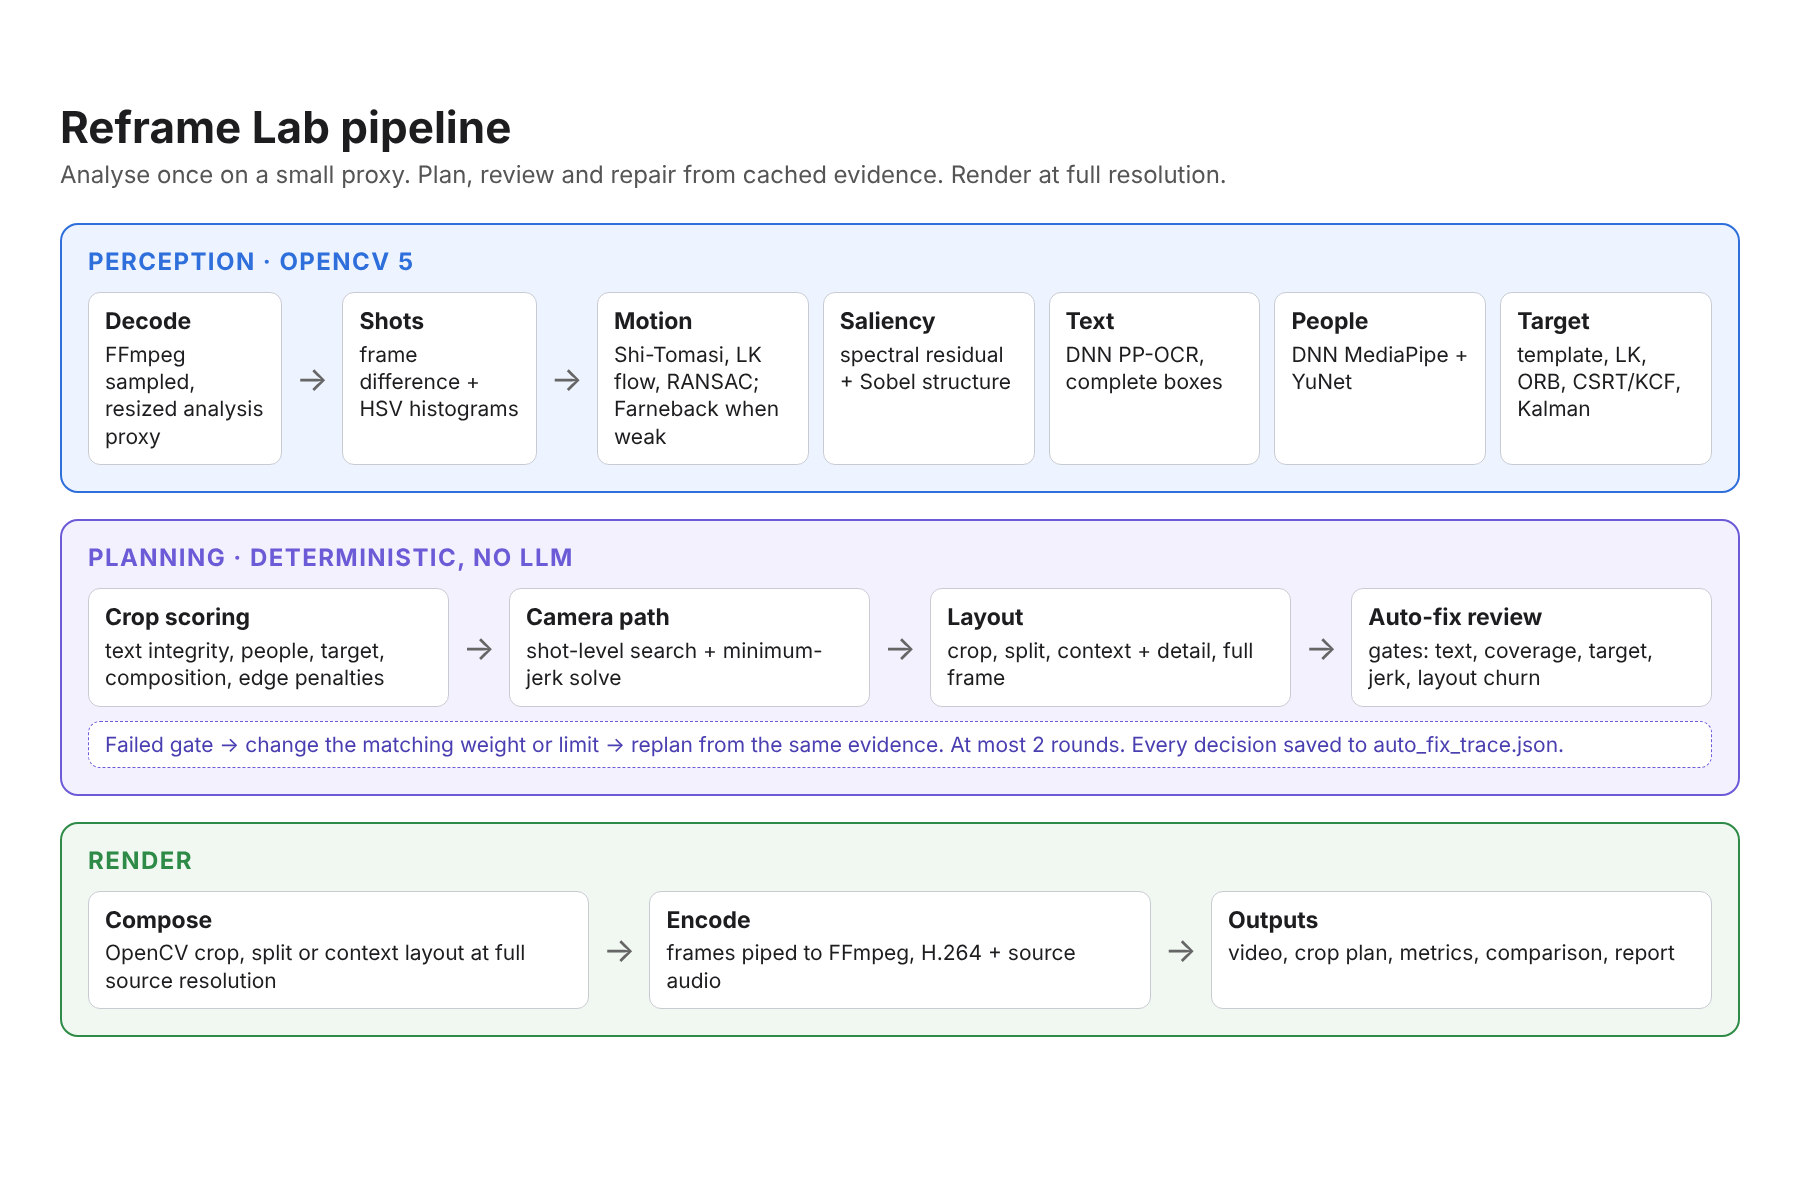
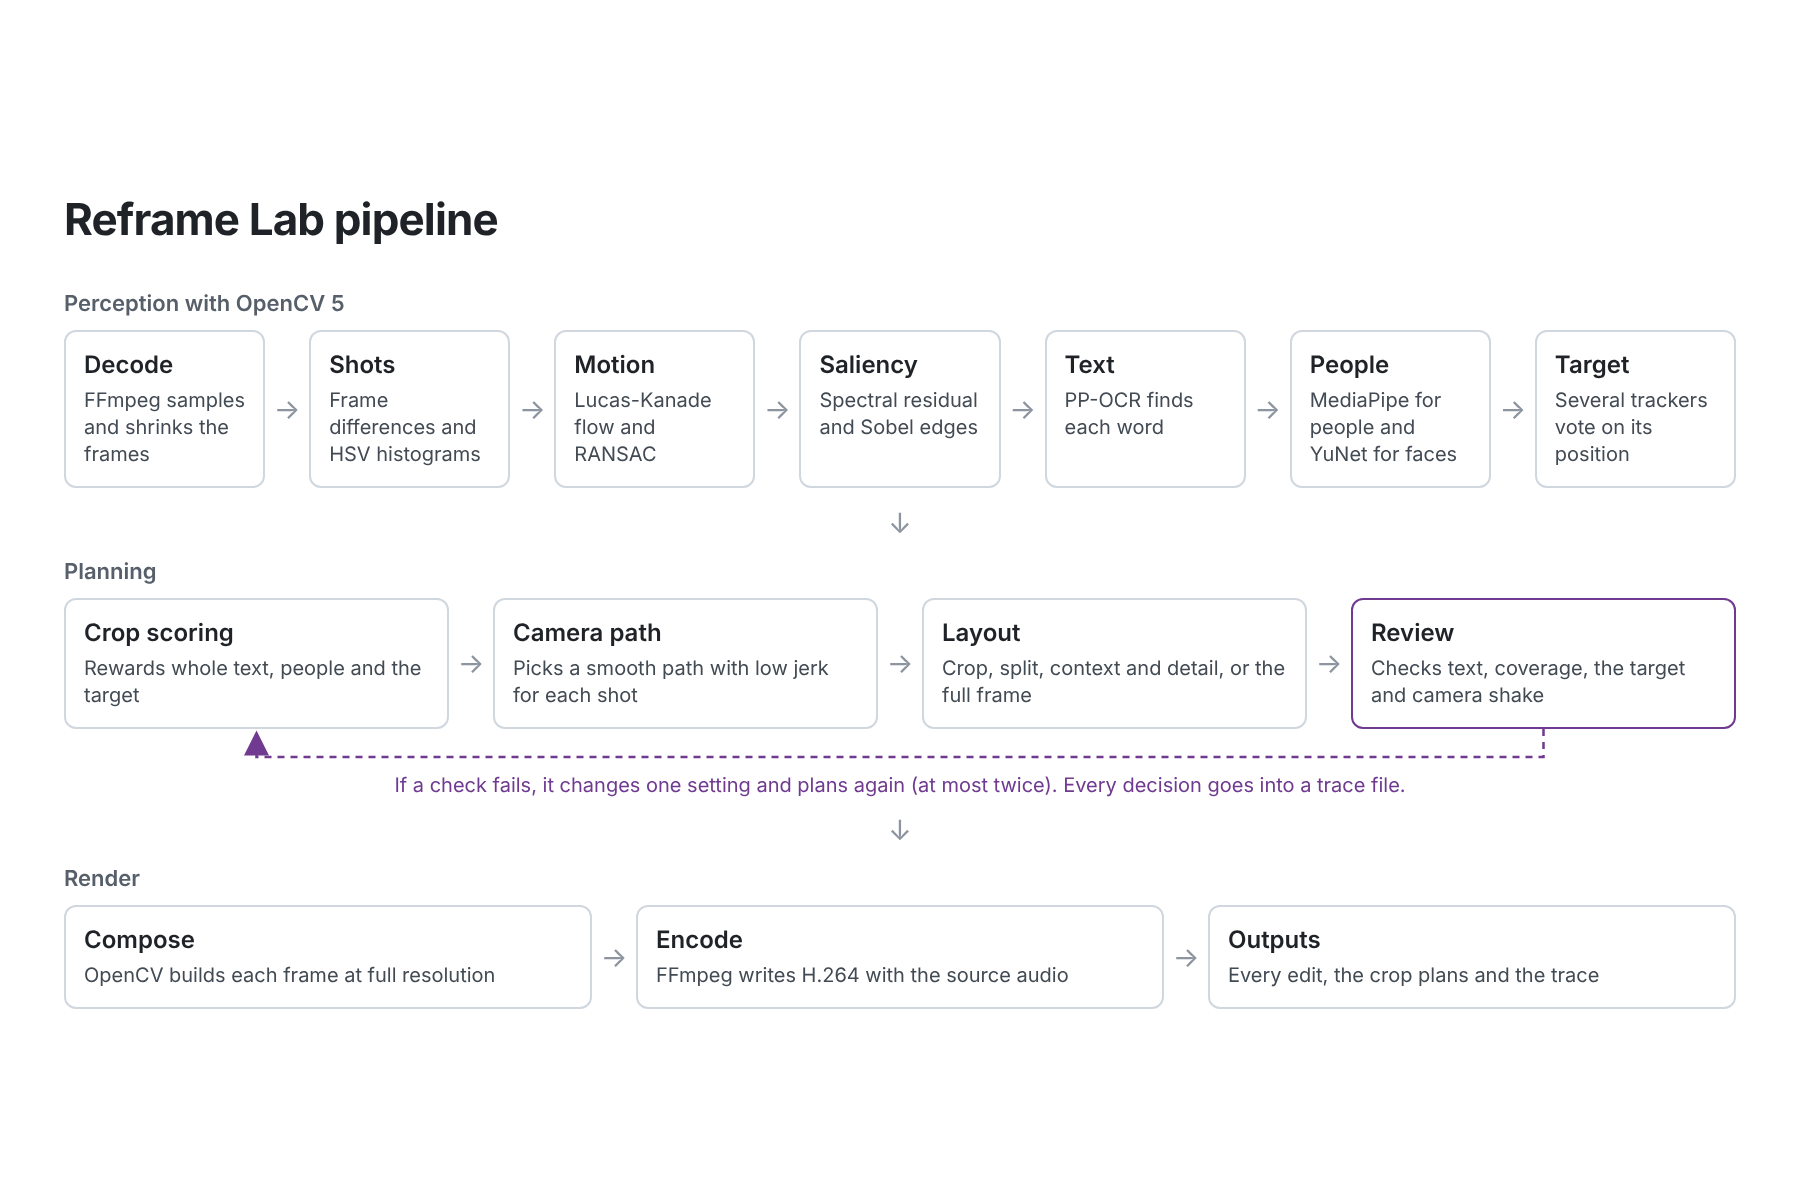
Update architecture

diff --git a/docs/TECHNICAL_REPORT.md b/docs/TECHNICAL_REPORT.md
@@ -2,7 +2,17 @@
 
 Reframe Lab converts a video to any output size and keeps the important content in frame. Portrait, square, landscape, ultrawide and custom sizes all use the same geometry code. A run renders every edit (*Smart*, *Follow* and *Centre*, plus *Smart target* and *Target* when the user marks something) along with the crop plans, metrics and a decision trace.
 
-## Pipeline
+## Problem
+
+Short-form platforms such as Shorts, Reels and TikTok use a 9:16 frame. A 9:16 crop of a 16:9 video keeps only about a third of the width, so most of every frame has to go. A centre crop often cuts off a person or the end of a label. A tracker that drives the crop directly makes the camera twitch. Padding the whole frame onto a blurred background keeps everything, but the subject becomes small.
+
+Clip tools already reframe video automatically. Users report crops that lose a face, lag behind the action, frame the listener instead of the speaker, or cut through captions. Some of these tools also charge for every minute of video.
+
+## Users
+
+The users are people who repurpose their own landscape video. This includes creators who post Shorts, educators, and small teams who post product demos or screen recordings. They need a result they can trust without editing every shot by hand. When the automatic choice is wrong, they need a quick way to fix one shot. Their videos often contain text on screen or more than one person, so the crop has to handle both.
+
+## Architecture
 
 ![Pipeline](images/pipeline-architecture.png)
 
@@ -14,7 +24,7 @@ The pipeline has three stages.
 
 Corrections and edit changes replan from the cached bundle, so they skip the perception stage.
 
-## OpenCV 5 methods
+## OpenCV 5 implementation
 
 | Stage | Method |
 |---|---|
@@ -58,6 +68,11 @@ In the example above, a framing mark put the crop on a camera instead of the per
 
 The loop runs on OpenCV measurements and fixed rules, with no language model.
 
+- Task success. A round only replaces the current plan when its score is higher, and the controller keeps the best plan it found. In the example, the score rose from 42 to 74.
+- Failure handling. If no round passes every gate, the best plan is still rendered and the remaining issues are written to the trace. A worker that fails on AWS writes `error.json`, and the API reports the ECS stop reason if the task dies first.
+- Observability. Each round's plan is saved under `plans/revisions/`, next to `auto_fix_trace.json` and `performance.json`. On AWS, each stage also logs a JSON event to CloudWatch.
+- Human control. Every edit is shown, including the ones the controller ranked lower. Framing marks override the planner for one shot, matching shots or the whole video, and the update replans from the cached evidence.
+
 ## Performance
 
 To cut repeated work, the analysis copy is sampled by FFmpeg before Python sees it. Difficult intervals get a finer second pass, and OCR and person detection run on their own cadence. Static scenes reuse their evidence until the next refresh or shot cut. The video is decoded and encoded once for all edits. Each run writes its stage timings to `performance.json`.
@@ -97,3 +112,11 @@ These metrics are proxies computed from the same OpenCV evidence. They are not h
 - Active-speaker emphasis has only been tested on a controlled clip, since the public two-person benchmark has no audio.
 - A wrong framing mark can push the crop off the subject. The review loop catches low coverage but cannot know what the user meant.
 - The cloud version skips the tracking review step, and a correction after a cloud run starts a new job.
+
+## Responsible use
+
+- Reframe Lab does not identify anyone. Face and person detection only decide where the crop goes.
+- The models run inside OpenCV, on the user's machine or in the Fargate task. No video or detection is sent to a third-party service.
+- The cloud version is a private demo. It needs an access code, limits the upload size and keeps files in a private, encrypted bucket. Uploads and results are deleted after twelve hours, links expire after one hour, and the tasks accept no inbound traffic. A public service would also need user accounts, rate limits, private subnets and upload scanning.
+- Every edit is shown and every decision is saved in the trace. A person makes the final choice and can see why each crop was chosen.
+- Users must own the videos they upload or have permission to use them. The creator clip comes from Pexels under the Pexels licence. The wildlife clips come from a wildlife compilation published under a Creative Commons licence.
